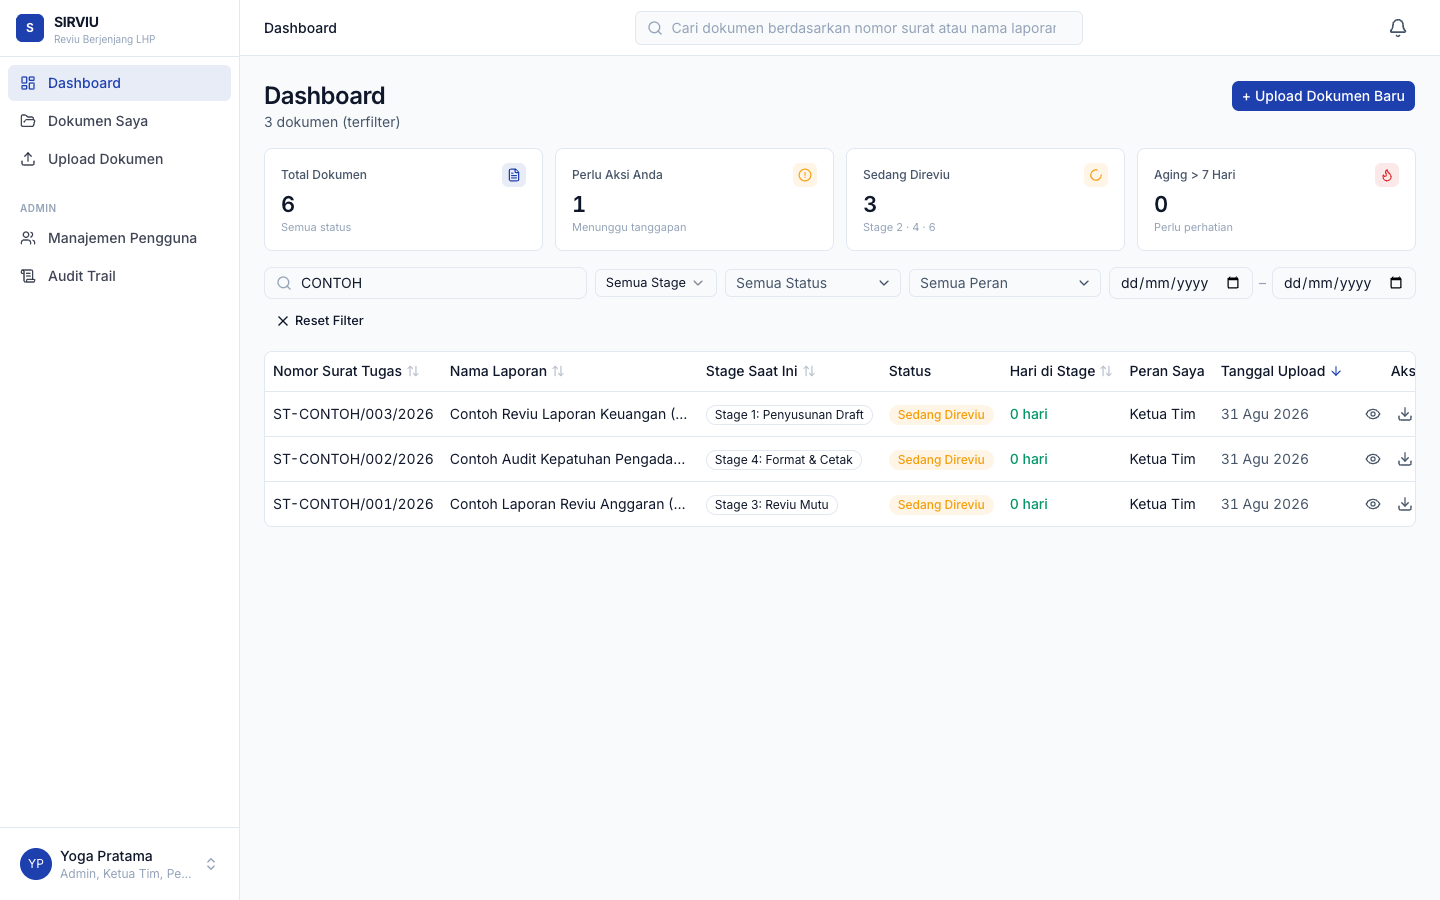
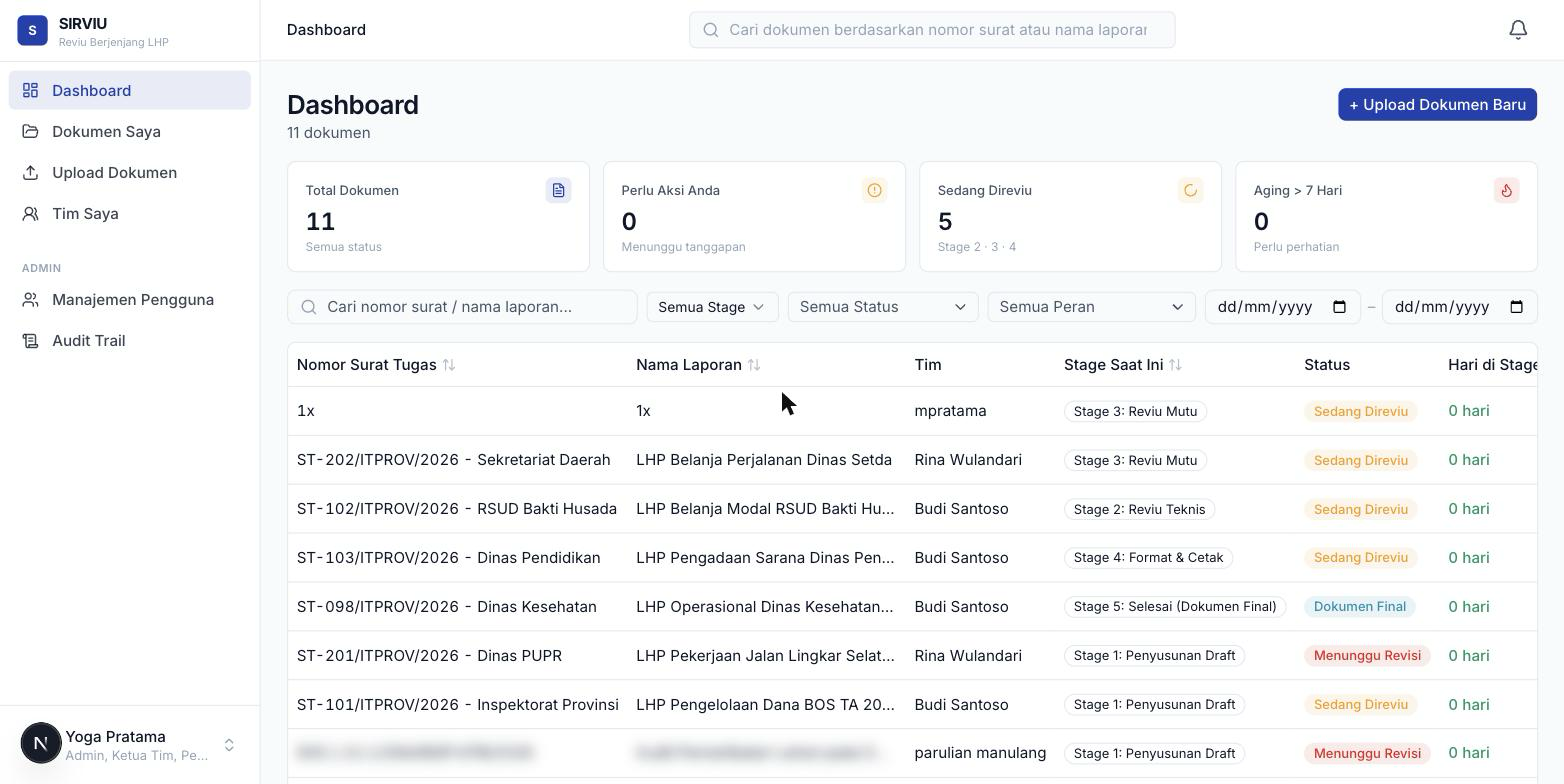
docs: update README + screenshots for multi-team feature
- README: mention multi-team workspace isolation among features, bump
  migration count 11 -> 14, note the follow-up migration that closed two
  authorization gaps found by end-to-end testing.
- Retake dashboard.png and admin-users.png: both now show the Tim
  (team) column/panel added this session. Personal emails and one
  document row with a real-looking institution reference number
  (INSP.NTB) are blurred before capture — confirmed with user first.
- .gitignore: drop the now-unused NgodingPakeAI entries (tool removed
  from this project).

diff --git a/README.md b/README.md
@@ -91,6 +91,11 @@ flowchart LR
 - **Sortable, filterable tables** everywhere data lives — dashboard, user
   management, audit trail — state kept in the URL so views are shareable and
   refresh-safe.
+- **Multi-team workspace isolation** — the app serves several Ketua Tim in
+  parallel, each with their own Dalnis/Dalmut/Operator; one team's documents,
+  including finalized ones, are invisible to another team, enforced in RLS
+  policies and RPCs (not just filtered in the UI). Admin sees every team and
+  can manage any team's roster from one panel.
 
 ---
 
@@ -118,10 +123,15 @@ flowchart LR
   caught during testing was exactly this gap: a reviewer-assignment rule that
   only lived in a dropdown's `disabled` prop, not in the RPC that actually
   wrote the row.
-- **11 migrations, each one a real fix or a real feature**, not a rebase —
+- **14 migrations, each one a real fix or a real feature**, not a rebase —
   including a workflow redesign (7-stage → 5-stage) driven by actual user
   feedback after a pilot test, done with a full data-remap migration *and* a
-  written, tested rollback script kept in the repo (`supabase/rollbacks/`).
+  written, tested rollback script kept in the repo (`supabase/rollbacks/`);
+  and a multi-team isolation rollout that itself needed a follow-up
+  migration once end-to-end testing (simulated sessions run directly against
+  the live database) turned up two real authorization gaps — one where a
+  security check trusted a client-supplied ID instead of deriving it from
+  the caller.
 
 ---
 
